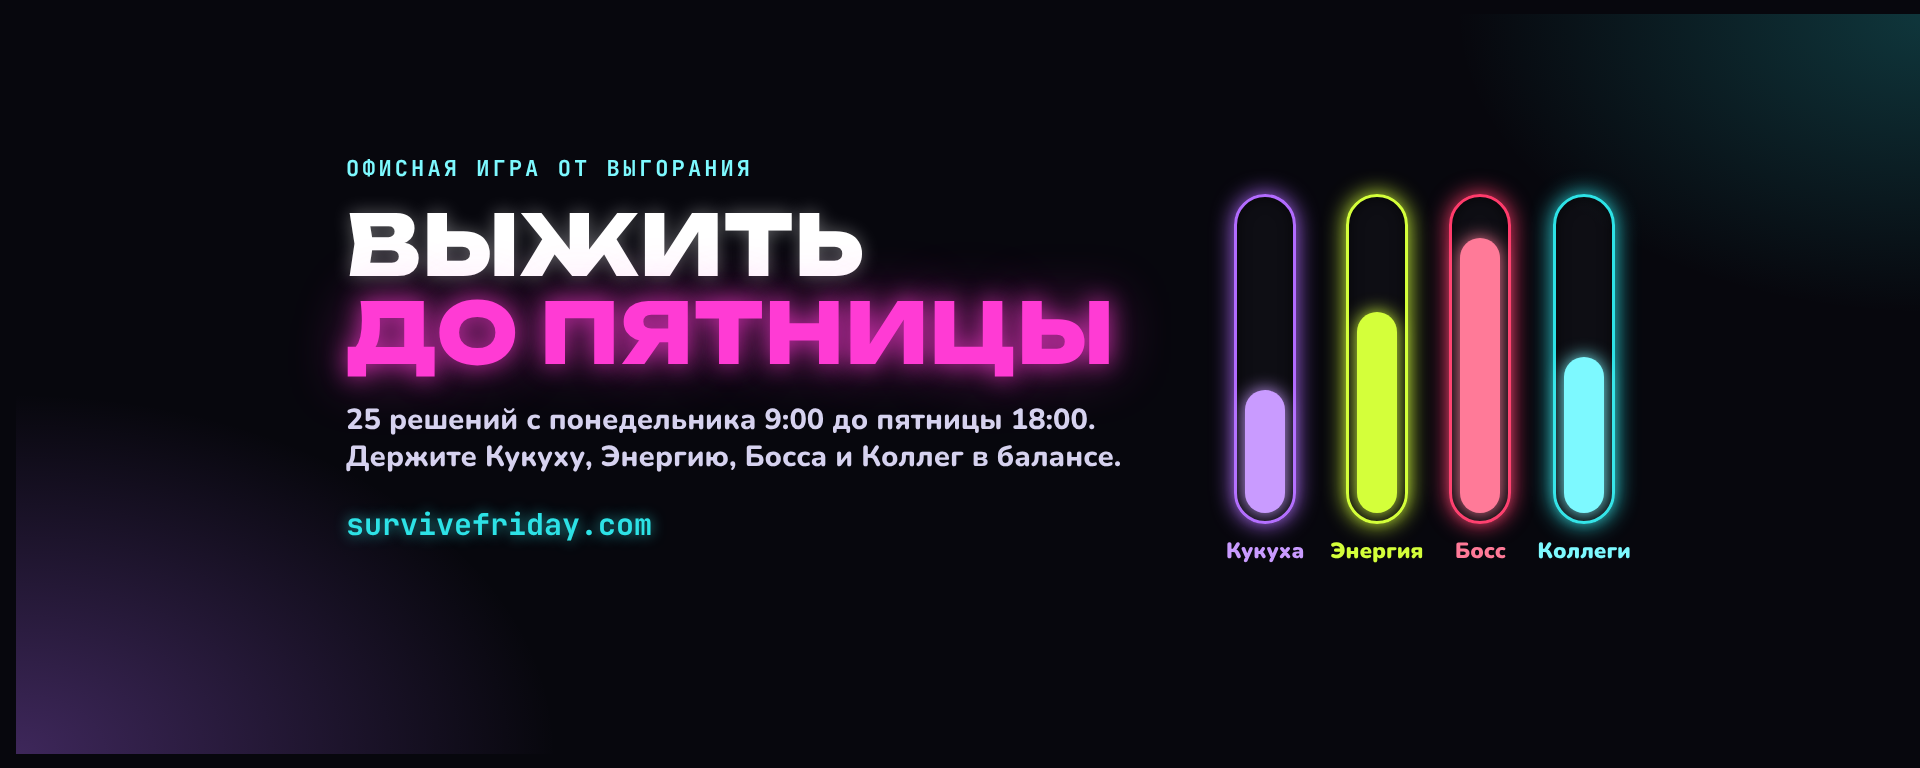
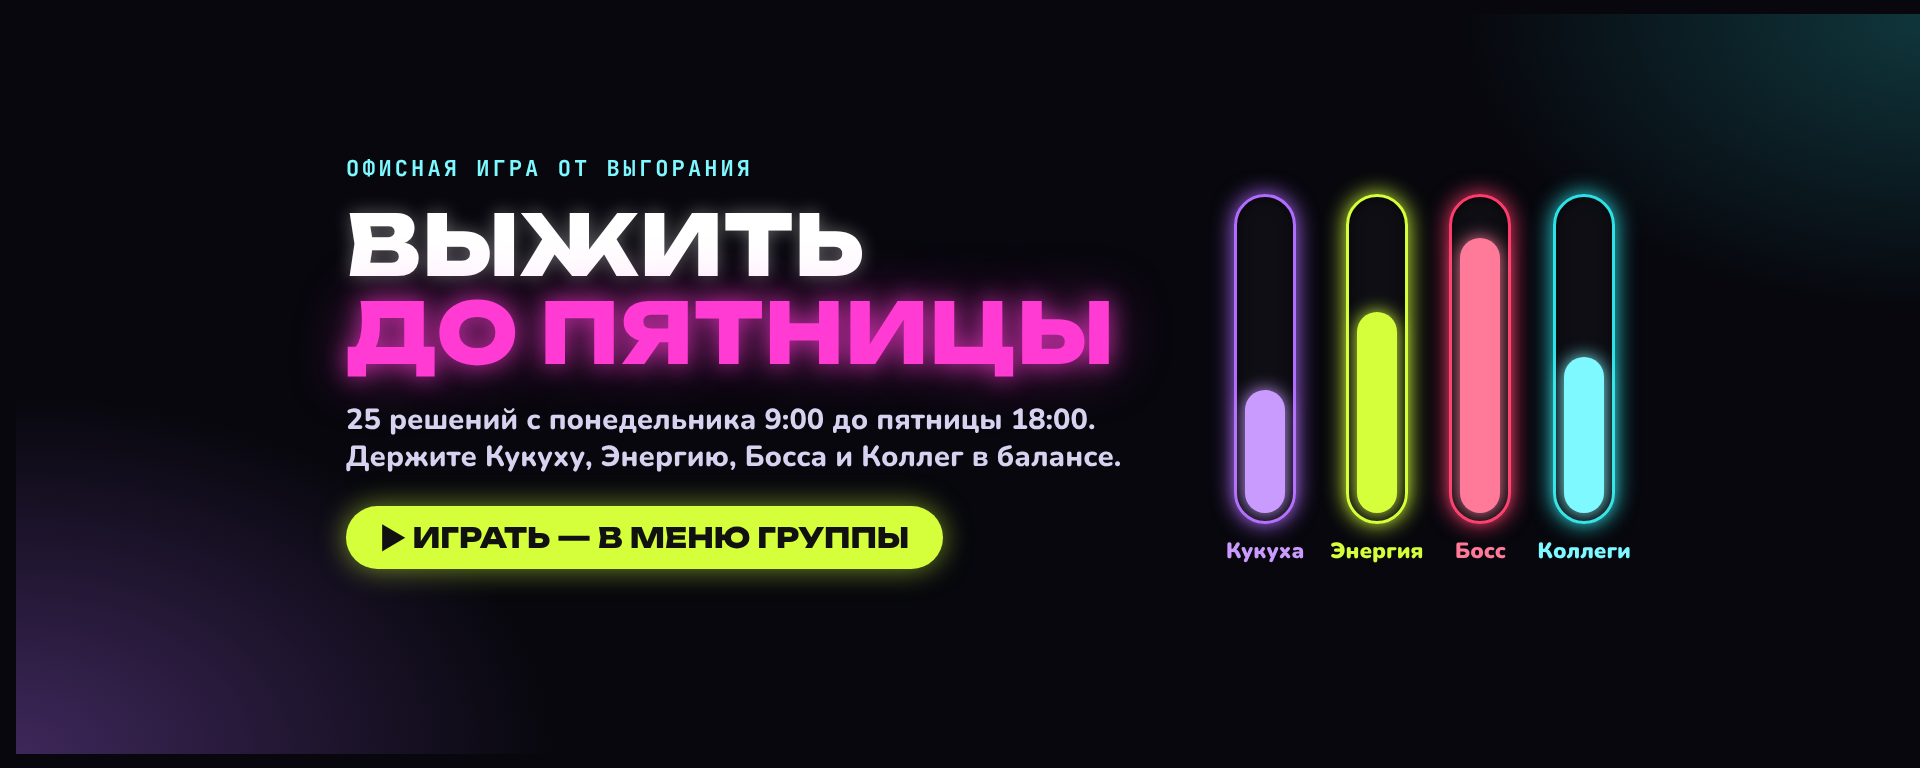
Обложка группы ВК без адреса сайта: «▶ Играть — в меню группы» (node tools/vk-promo.js cover)
Claude-Session: https://claude.ai/code/session_01AAVyg7WURH38vHMPY1fwkq

Changed region(s): [[0.1562, 0.625, 0.5, 0.7812]]

diff --git a/tools/vk-promo.js b/tools/vk-promo.js
@@ -55,15 +55,18 @@ const bars = (vals = [38, 62, 85, 48], h = 230) => `<div class="vbars">${[['Ку
     console.log('✓', name);
   };
 
-  // Обложка 1920×768: всё важное — в центре (на телефоне ВК показывает середину), сверху не ближе 140px
+  // Обложка 1920×768: всё важное — в центре (на телефоне ВК показывает середину), сверху не ближе 140px.
+  // Без адреса сайта (правила VK Mini Apps 4.1.8): игра запускается из меню группы / кнопкой действия
   await shot('cover-1920x768.png', 1920, 768, `
     <div style="position:absolute;left:330px;top:140px;width:820px">
       <div class="kick" style="font-size:22px;margin-bottom:22px">офисная игра от выгорания</div>
       <div class="t1" style="font-size:84px">Выжить</div><div class="t2" style="font-size:84px;margin-top:8px;white-space:nowrap">до пятницы</div>
       <p class="sub" style="font-size:29px;margin-top:28px">25 решений с понедельника 9:00 до пятницы 18:00.<br>Держите Кукуху, Энергию, Босса и Коллег в балансе.</p>
-      <div class="url" style="font-size:30px;margin-top:28px">survivefriday.com</div>
+      <div style="display:inline-block;margin-top:30px;padding:14px 34px;border-radius:999px;background:#d4ff3a;color:#111;font-family:Unbounded,sans-serif;font-size:28px;box-shadow:0 0 28px rgba(212,255,58,.55)">▶ ИГРАТЬ — В МЕНЮ ГРУППЫ</div>
     </div>
     <div style="position:absolute;left:1210px;top:180px">${bars([38, 62, 85, 48], 330)}</div>`);
+
+  if (process.argv[2] === 'cover') { await b.close(); return; }  // node tools/vk-promo.js cover — только обложка
 
   // Аватар 800×800 (ВК обрежет в круг): значок игры с запасом от краёв
   await shot('avatar-800.png', 800, 800, `
